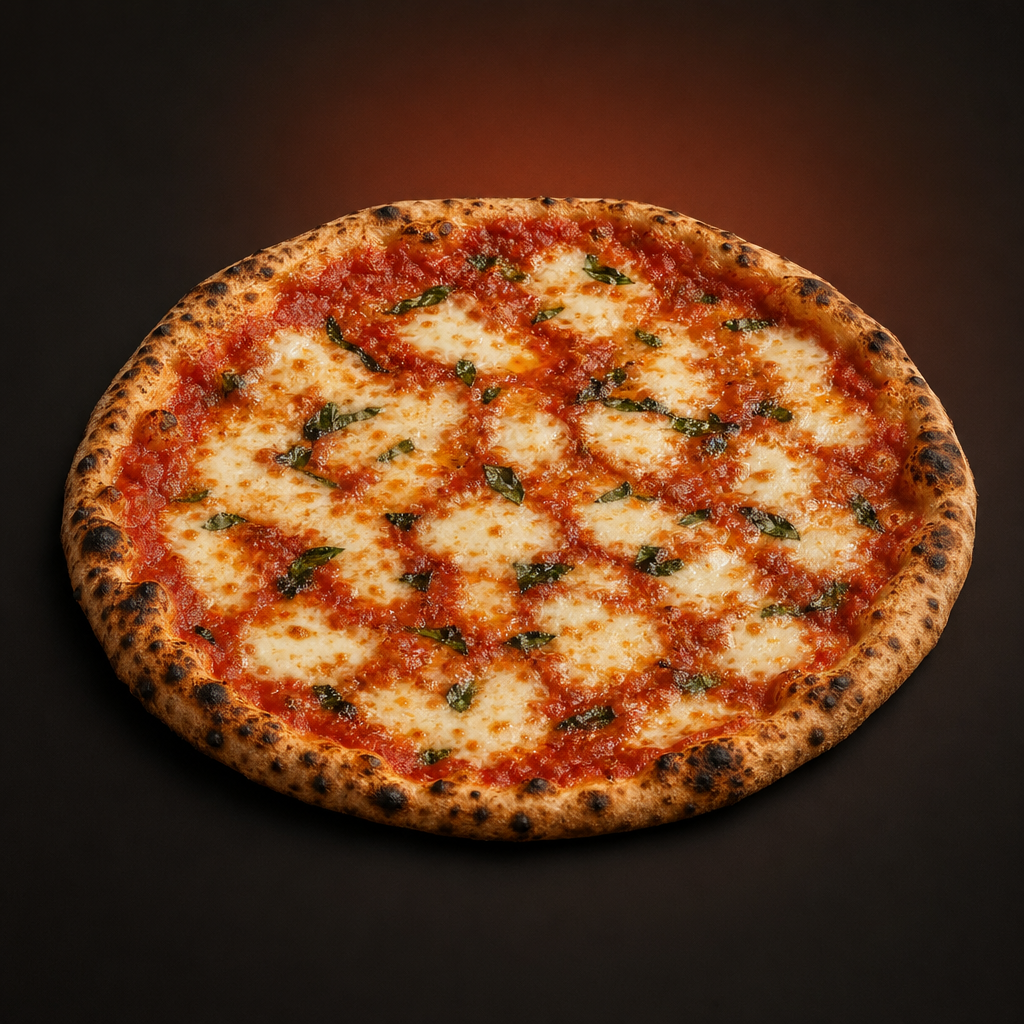
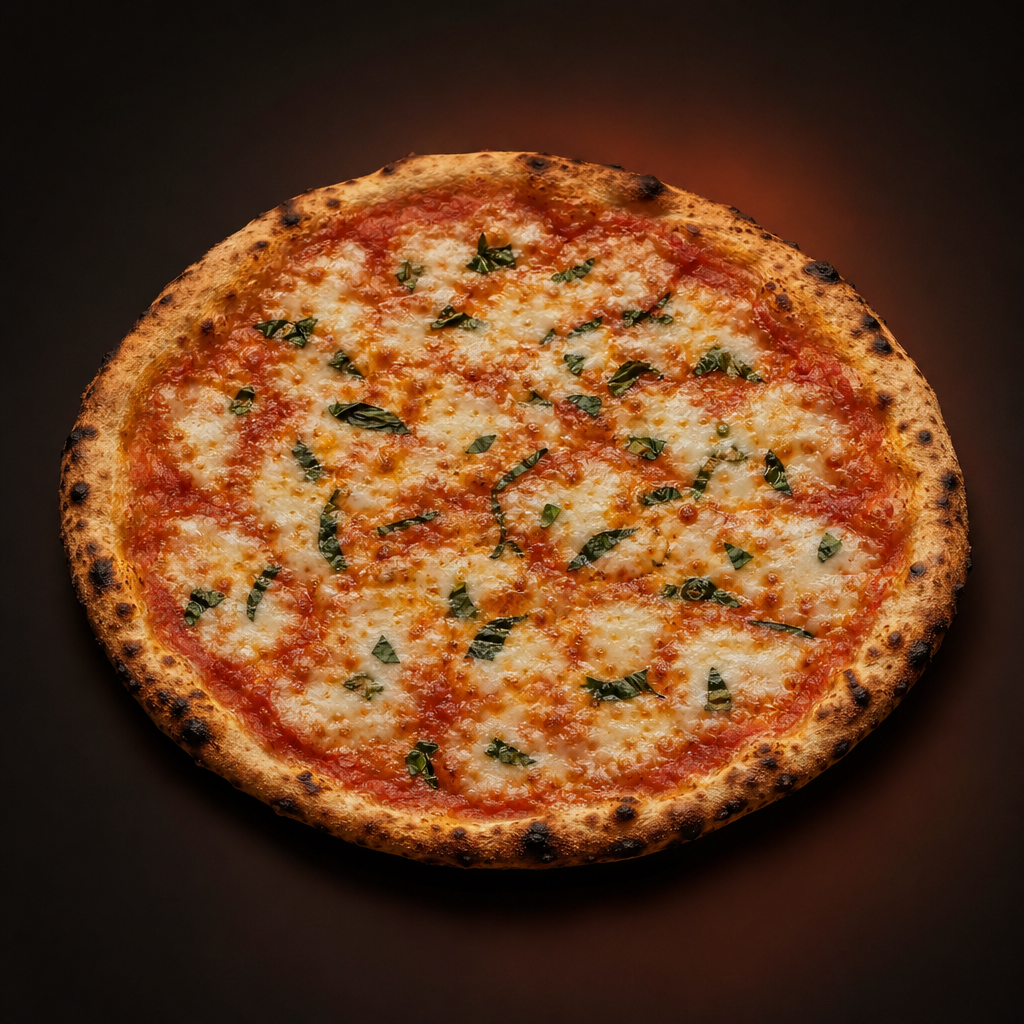
fix: show All styles label when no pizza style filter selected

diff --git a/app/components/ToppingSelector.tsx b/app/components/ToppingSelector.tsx
@@ -1339,9 +1339,11 @@ export default function ToppingSelector({ locale, numItems, activePill, onPillCh
             fontFamily: 'DM Sans, sans-serif', fontSize: '13px',
             color: '#3D3530',
           }}>
-            {l === 'fr'
-              ? (STYLE_NAMES_FR[styleKey ?? 'neapolitan'] ?? 'Napolitaine')
-              : (STYLE_NAMES[styleKey ?? 'neapolitan'] ?? 'Neapolitan')}
+            {styleKey
+              ? (l === 'fr'
+                  ? (STYLE_NAMES_FR[styleKey] ?? styleKey)
+                  : (STYLE_NAMES[styleKey] ?? styleKey))
+              : (l === 'fr' ? 'Tous les styles' : 'All styles')}
             {' · '}
             <span style={{ color: '#8A7F78' }}>
               {filtered.length} {l === 'fr' ? 'pizzas' : 'pizzas'}